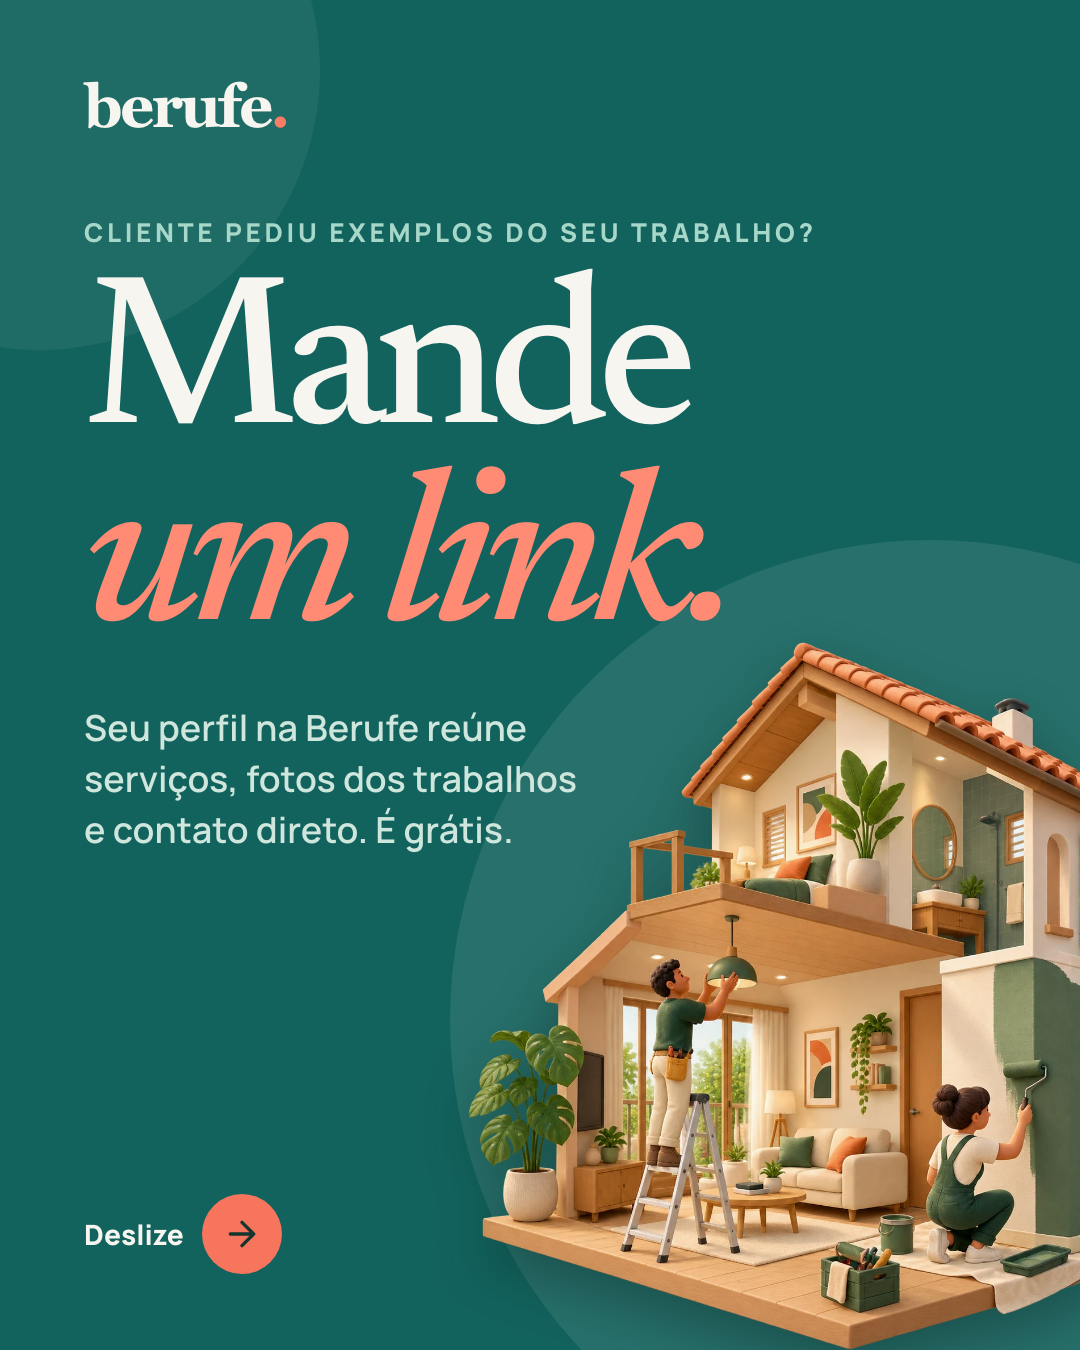
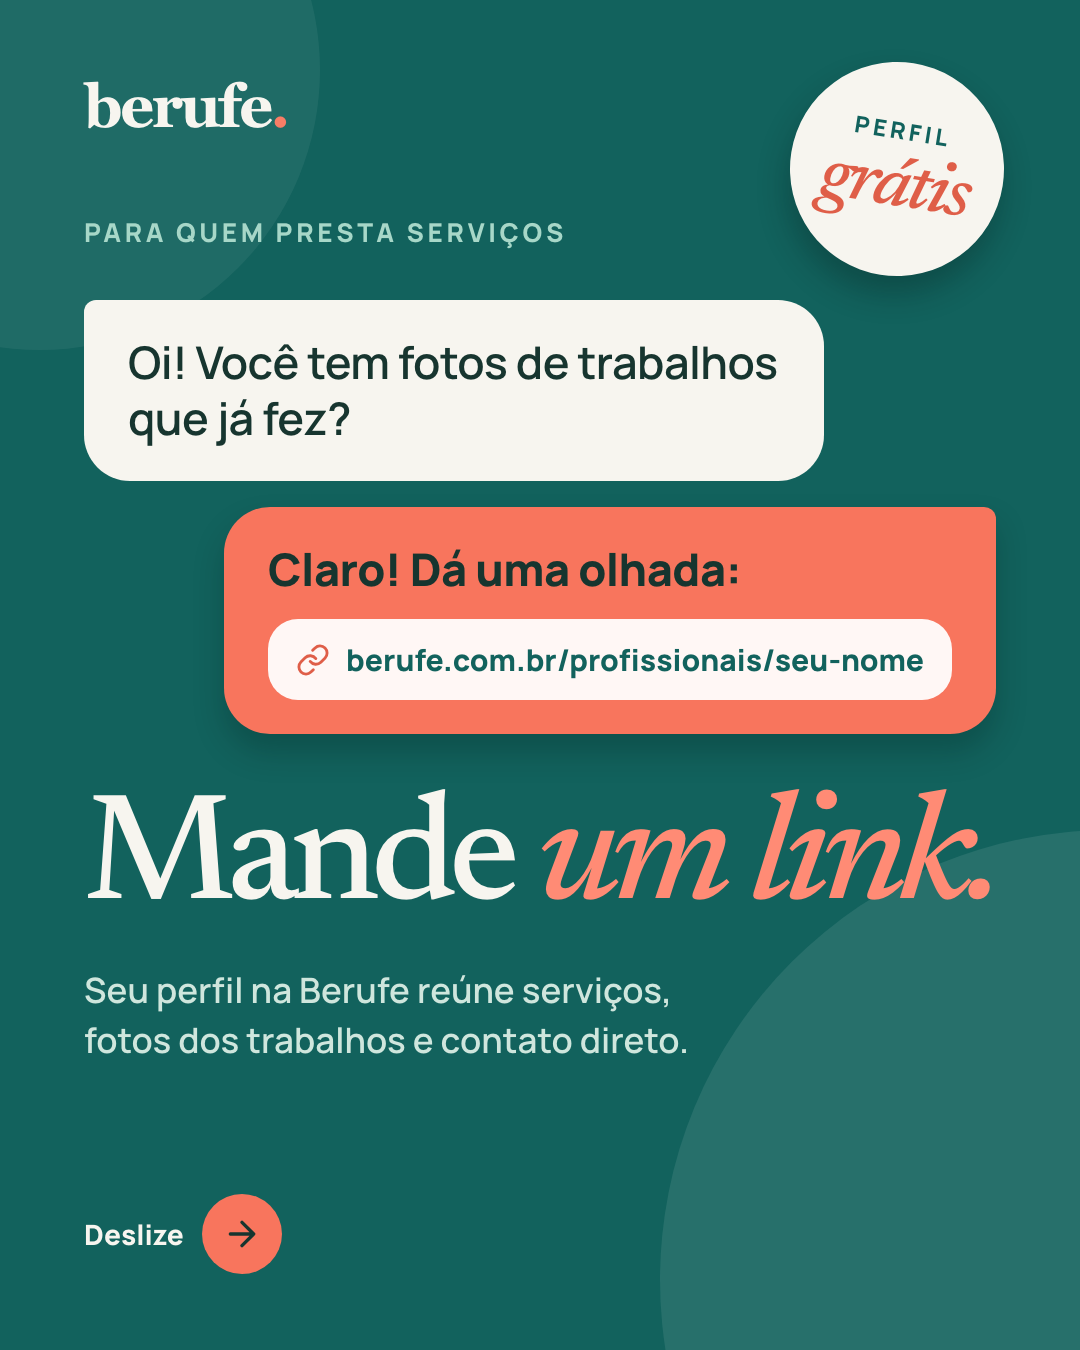
Replace the professionals' cover with a chat that shows the pain
The cover reused the house illustration from the customer ads, which reads
as a client looking for someone rather than a professional with a problem.
The new cover stages the moment every professional knows (a customer asks
for photos of past work) and answers it with the profile link, plus a
'Perfil grátis' sticker as the strongest hook for this audience. The chat
is generic: no names, no timestamps, no WhatsApp branding.

diff --git a/arts/instagram/posts/profissional_post_001/post.md b/arts/instagram/posts/profissional_post_001/post.md
@@ -8,7 +8,9 @@ re-renders the slides).
 
 ## Angle
 
-The hook is a moment every professional lives: a customer asks for examples of their work. The
+The cover shows the hook as a chat every professional has had: a customer asks for examples of their
+work and the reply is a link. (An earlier cover used the house illustration from the customer ads; it
+read as customer-facing, so it was replaced.) The
 carousel names three everyday pains, then answers each one with something the product does today.
 
 | Pain (slide 2)                                                  | What answers it                                                    |
@@ -23,7 +25,7 @@ carousel names three everyday pains, then answers each one with something the pr
 
 | #   | File                   | On-slide text                                                                                                                              |
 | --- | ---------------------- | ------------------------------------------------------------------------------------------------------------------------------------------ |
-| 1   | `slide-01-cover.png`    | Cliente pediu exemplos do seu trabalho? — **Mande um link.** — Seu perfil na Berufe reúne serviços, fotos dos trabalhos e contato direto. É grátis. |
+| 1   | `slide-01-cover.png`    | Para quem presta serviços — chat: "Oi! Você tem fotos de trabalhos que já fez?" → "Claro! Dá uma olhada:" + link — **Mande um link.** — Seu perfil na Berufe reúne serviços, fotos dos trabalhos e contato direto. Selo "Perfil grátis". |
 | 2   | `slide-02-pains.png`    | Você conhece essa rotina? — Procurar fotos antigas… · Explicar tudo de novo… · Ser um desconhecido… — Existe um jeito mais simples.        |
 | 3   | `slide-03-profile.png`  | Seu trabalho num link só. — berufe.com.br/profissionais/seu-nome — Serviços e região · Portfólio · Selo de identidade verificada · Indicações — Mande pelo WhatsApp ou fixe na bio do Instagram. |
 | 4   | `slide-04-direct.png`   | Fale direto com o cliente. Sem pagar por isso. — R$ 0 por contato recebido · 0% de comissão sobre o serviço — Orçamento pelo WhatsApp      |
@@ -34,7 +36,7 @@ margins.
 
 ## Alt text (paste into "Advanced settings → Write alternative text", one per slide)
 
-1. Ilustração de uma casa em corte com dois profissionais trabalhando e o texto "Cliente pediu exemplos do seu trabalho? Mande um link. Seu perfil na Berufe reúne serviços, fotos dos trabalhos e contato direto. É grátis."
+1. Conversa de mensagens: um cliente pergunta "Oi! Você tem fotos de trabalhos que já fez?" e o profissional responde "Claro! Dá uma olhada:" com um link de perfil da Berufe. Abaixo, o título "Mande um link." e o texto "Seu perfil na Berufe reúne serviços, fotos dos trabalhos e contato direto." Um selo diz "Perfil grátis".
 2. Título "Você conhece essa rotina?" e três situações do dia a dia: procurar fotos antigas na galeria, explicar tudo de novo por mensagem e ser um desconhecido para quem vai deixar você entrar em casa. Abaixo: "Existe um jeito mais simples."
 3. Título "Seu trabalho num link só" com um endereço de perfil da Berufe e quatro cartões: serviços e região de atendimento, portfólio com fotos dos trabalhos, selo de identidade verificada e indicações de outros profissionais.
 4. Título "Fale direto com o cliente. Sem pagar por isso." com dois destaques, "R$ 0 por contato recebido" e "0% de comissão sobre o serviço", e um cartão sobre orçamento enviado pelo WhatsApp.
@@ -49,7 +51,9 @@ Everything on the slides comes from `apps/web/app/pages/para-profissionais`,
   "não vou te prometer clientes que ainda não temos". The caption only says people who search by
   service and city _can_ find the profile.
 - **No customer reviews or ratings.** References come from other professionals in the network.
-- **No fabricated profile.** Slide 3 shows a placeholder address (`seu-nome`), not a real person.
+- **No fabricated profile or conversation.** The cover chat is a generic scenario (no names, no
+  timestamps, no WhatsApp branding) and slides 1 and 3 show a placeholder address (`seu-nome`), not a
+  real person.
 - **No "Google ranking" or traffic numbers.**
 
 ## Before publishing
